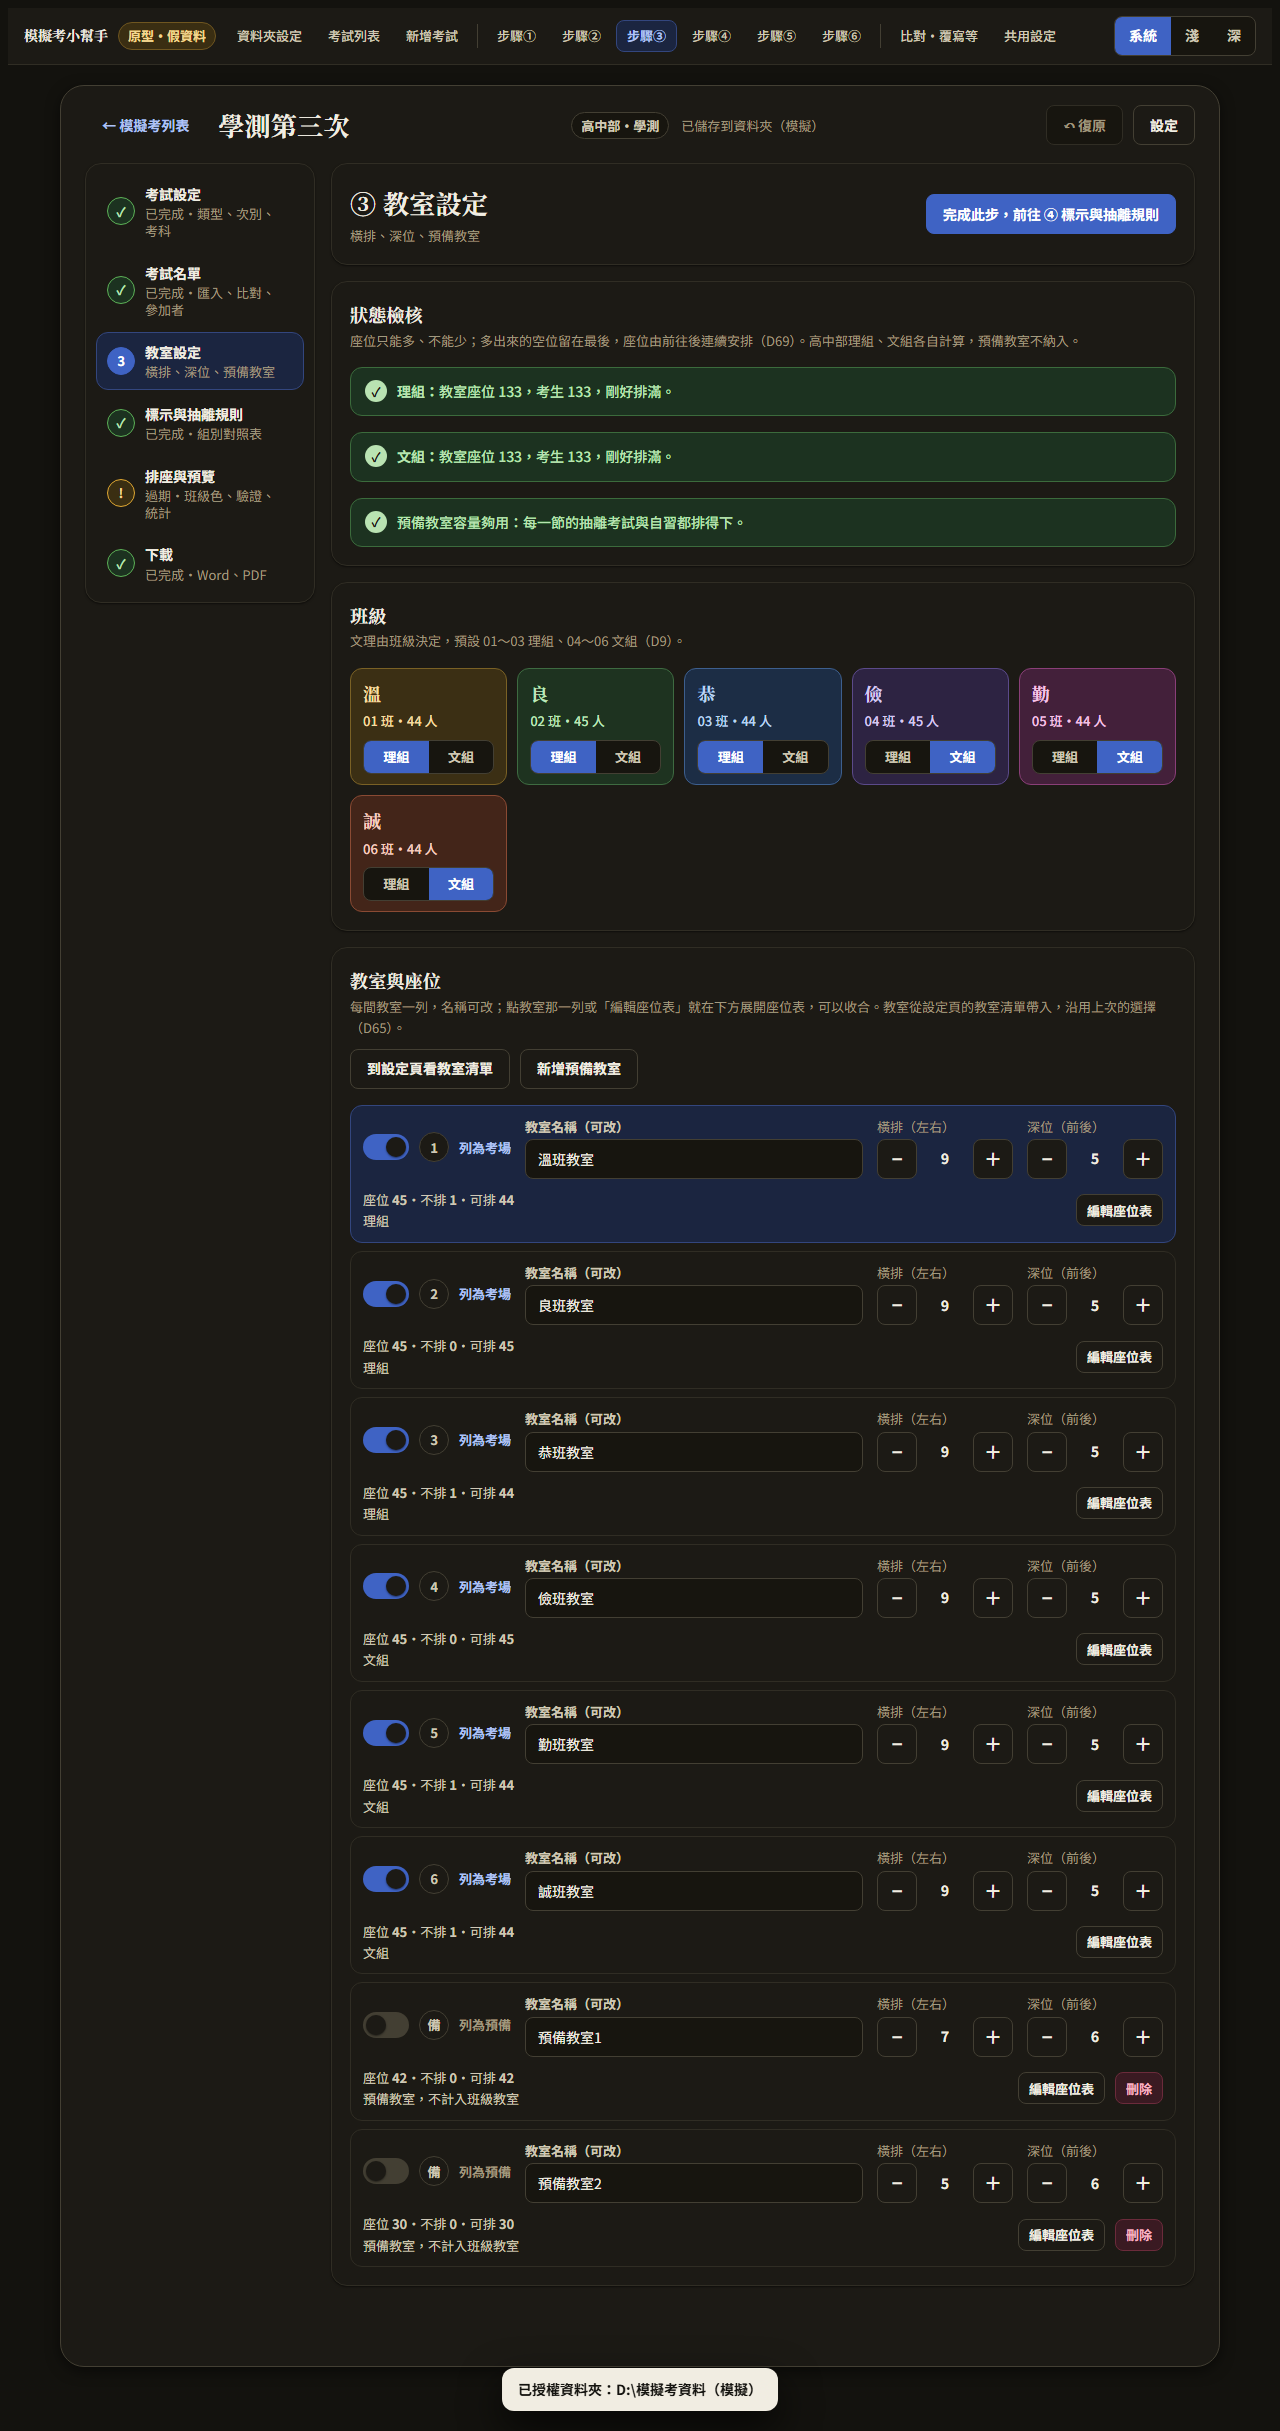
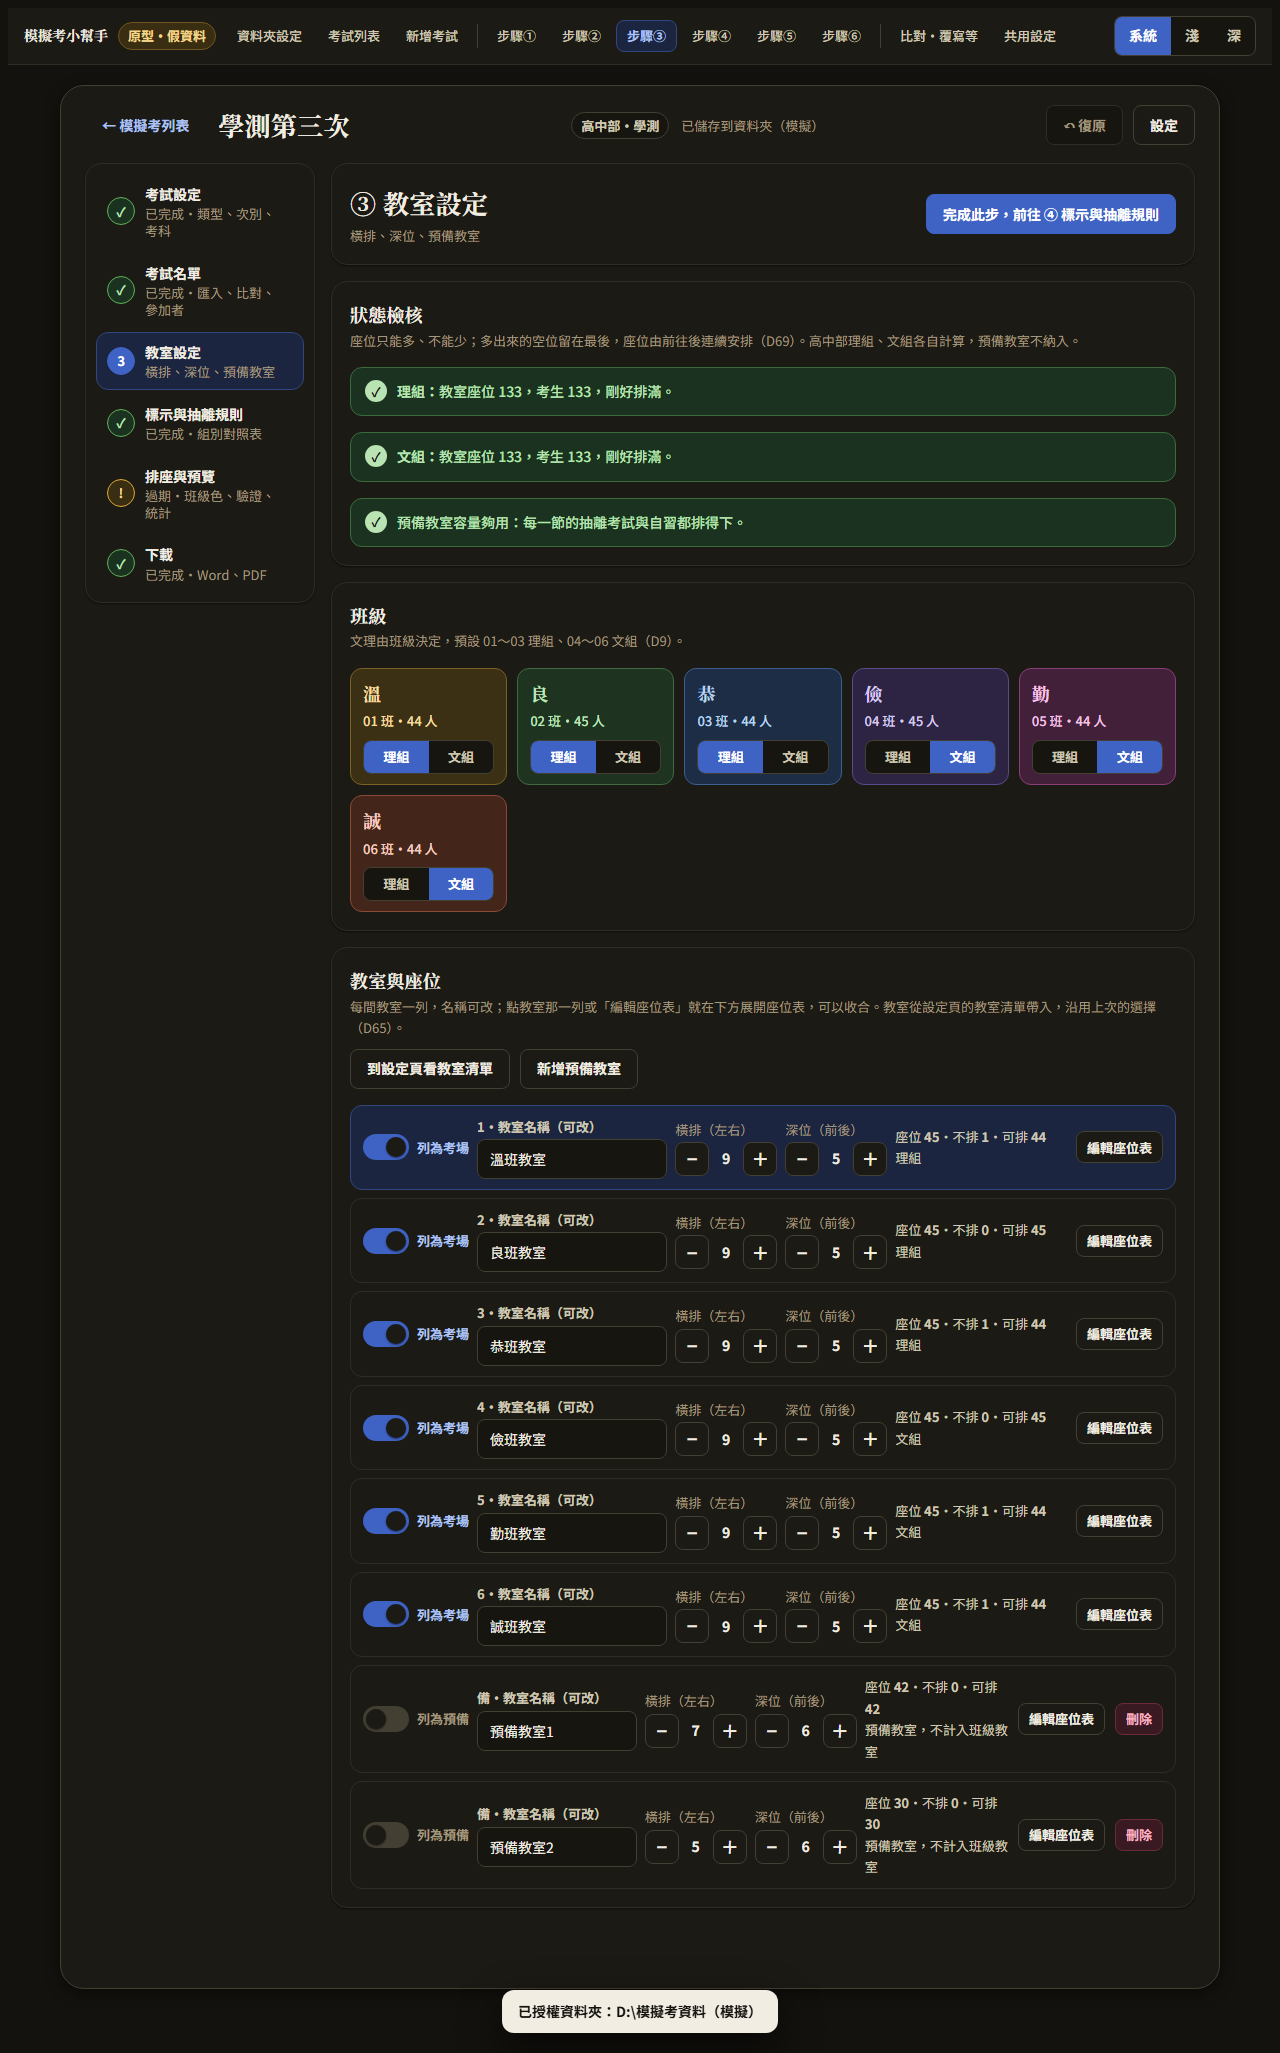
docs: 原型教室列 1280 維持單行，窄寬度才換行

diff --git a/docs/design/mockups/原型.html b/docs/design/mockups/原型.html
@@ -404,14 +404,13 @@ table.t{border-collapse:collapse;width:100%;min-width:560px}
 .stephead{display:flex;gap:12px;justify-content:space-between;align-items:center;flex-wrap:wrap}
 .fmtseg{width:max-content;max-width:100%}
 .fmtseg button[aria-pressed="true"]{background:var(--accent);color:var(--accent-on);border-color:var(--accent)}
-.roomrow{display:grid;grid-template-columns:auto minmax(150px,1.3fr) auto auto minmax(190px,1fr) auto;gap:10px 14px;align-items:center;padding:10px 12px;border:1px solid var(--line);border-radius:var(--r-md);background:var(--surface)}
+.roomrow{display:grid;grid-template-columns:auto minmax(110px,1.1fr) auto auto minmax(110px,1fr) auto;gap:8px 8px;align-items:center;padding:10px 12px;border:1px solid var(--line);border-radius:var(--r-md);background:var(--surface)}
 .roomrow.on{border-color:var(--accent-line);background:var(--accent-soft)}
 .roomrow .no{width:30px;height:30px;border-radius:50%;display:grid;place-items:center;font-weight:700;font-size:13px;border:1.5px solid var(--line-2);background:var(--surface)}
 .roomrow .info{font-size:13px;color:var(--text-2);font-variant-numeric:tabular-nums}
-.roomrow .stepper output{font-size:14px}
+.roomrow .stepper output{font-size:14px;min-width:26px}.roomrow .stepper{gap:4px}.roomrow .stepper .icon-btn{width:34px;height:34px}.roomrow .sw{gap:8px}.roomrow .field,.roomrow .info{min-width:0}
 .roomlist{display:grid;gap:8px}
-@media (max-width:1500px){.roomrow{display:flex;flex-wrap:wrap}.roomrow>.field:nth-of-type(1){flex:1 1 180px}.roomrow>.field{flex:0 1 auto}.roomrow .info{flex:1 1 160px}}
-@media (max-width:900px){.roomrow .info{flex:1 1 100%}}
+@media (max-width:900px){.roomrow{display:flex;flex-wrap:wrap}.roomrow>.field:nth-of-type(1){flex:1 1 180px}.roomrow>.field{flex:0 1 auto}.roomrow .info{flex:1 1 100%}}
 .prev .pgrid .pc{width:52px;height:44px;font-size:13px}
 .vcode{font-size:13px;color:var(--text-3);text-align:right;font-variant-numeric:tabular-nums}
 .swatches{display:flex;gap:6px;flex-wrap:wrap}
@@ -974,7 +973,7 @@ table.t{border-collapse:collapse;width:100%;min-width:560px}
     var e=S.cur,d=D(),isJ=e.type==='會考',sel=S.rsel||'r0',ex=S.rexp;
     var cls=isJ?'<div class="alert a-info"><span class="ico" data-i="i"></span><span>會考不分文理組，所有班級打散到所有教室（D10、D30）。</span><span></span></div>':'<div class="cls-pal">'+d.cls.map(function(c,i){return '<div class="cp" data-c="'+cc(i)+'"><strong>'+CNAME[i]+'</strong><span>0'+(i+1)+' 班・'+d.stu.filter(function(s){return s.c===i}).length+' 人</span><div class="seg" role="group" aria-label="'+CNAME[i]+'班文理組" style="margin-top:6px"><button type="button" data-act="grp" data-c="'+i+'" data-g="sci" aria-pressed="'+(c.grp==='sci')+'">理組</button><button type="button" data-act="grp" data-c="'+i+'" data-g="art" aria-pressed="'+(c.grp==='art')+'">文組</button></div></div>'}).join('')+'</div>';
     function rrow(r,key,lab,kind){var n=seatsOf(r).length,off=r.cols*r.rows-n,open=ex===key;
-      return '<div class="rw"><div class="roomrow'+(sel===key?' on':'')+'" data-act="rexp" data-s="'+key+'"><label class="sw" data-act="rsw"><input type="checkbox" data-sw="'+key+'"'+((S.rsw&&key in S.rsw)?(S.rsw[key]?' checked':''):(kind==='p'?'':' checked'))+'><span class="trk"></span><span class="no" aria-label="'+(kind==='p'?'預備教室':'第'+lab+'間')+'">'+lab+'</span><span class="st">'+(kind==='p'?'列為預備':'列為考場')+'</span></label><div class="field" style="gap:2px"><label class="small muted" for="rn'+key+'">教室名稱（可改）</label><input class="input" id="rn'+key+'" data-rn="'+key+'" value="'+esc(r.name)+'"></div>'+
+      return '<div class="rw"><div class="roomrow'+(sel===key?' on':'')+'" data-act="rexp" data-s="'+key+'"><label class="sw" data-act="rsw"><input type="checkbox" data-sw="'+key+'"'+((S.rsw&&key in S.rsw)?(S.rsw[key]?' checked':''):(kind==='p'?'':' checked'))+'><span class="trk"></span><span class="st">'+(kind==='p'?'列為預備':'列為考場')+'</span></label><div class="field" style="gap:2px"><label class="small muted" for="rn'+key+'">'+lab+'・教室名稱（可改）</label><input class="input" id="rn'+key+'" data-rn="'+key+'" value="'+esc(r.name)+'"></div>'+
         '<div class="field" style="gap:2px"><span class="small muted">橫排（左右）</span>'+stp(key,'cols','橫排',r.cols)+'</div><div class="field" style="gap:2px"><span class="small muted">深位（前後）</span>'+stp(key,'rows','深位',r.rows)+'</div>'+
         '<div class="info">座位 <b>'+(r.cols*r.rows)+'</b>・不排 <b>'+off+'</b>・可排 <b>'+n+'</b>'+(kind==='p'?'<br>預備教室，不計入班級教室':(isJ?'':'<br>'+(d.cls[r.c].grp==='sci'?'理組':'文組')))+'</div>'+
         '<div class="row" style="flex-wrap:nowrap"><button class="btn btn-sm'+(open?' btn-primary':'')+'" data-act="rexp" data-s="'+key+'" aria-expanded="'+open+'">'+(open?'收合座位表':'編輯座位表')+'</button>'+(kind==='p'?'<button class="btn btn-sm btn-danger" data-act="pdel" data-s="'+key+'">刪除</button>':'')+'</div></div>'+(open?roomEditorHTML(key,false):'')+'</div>'}
